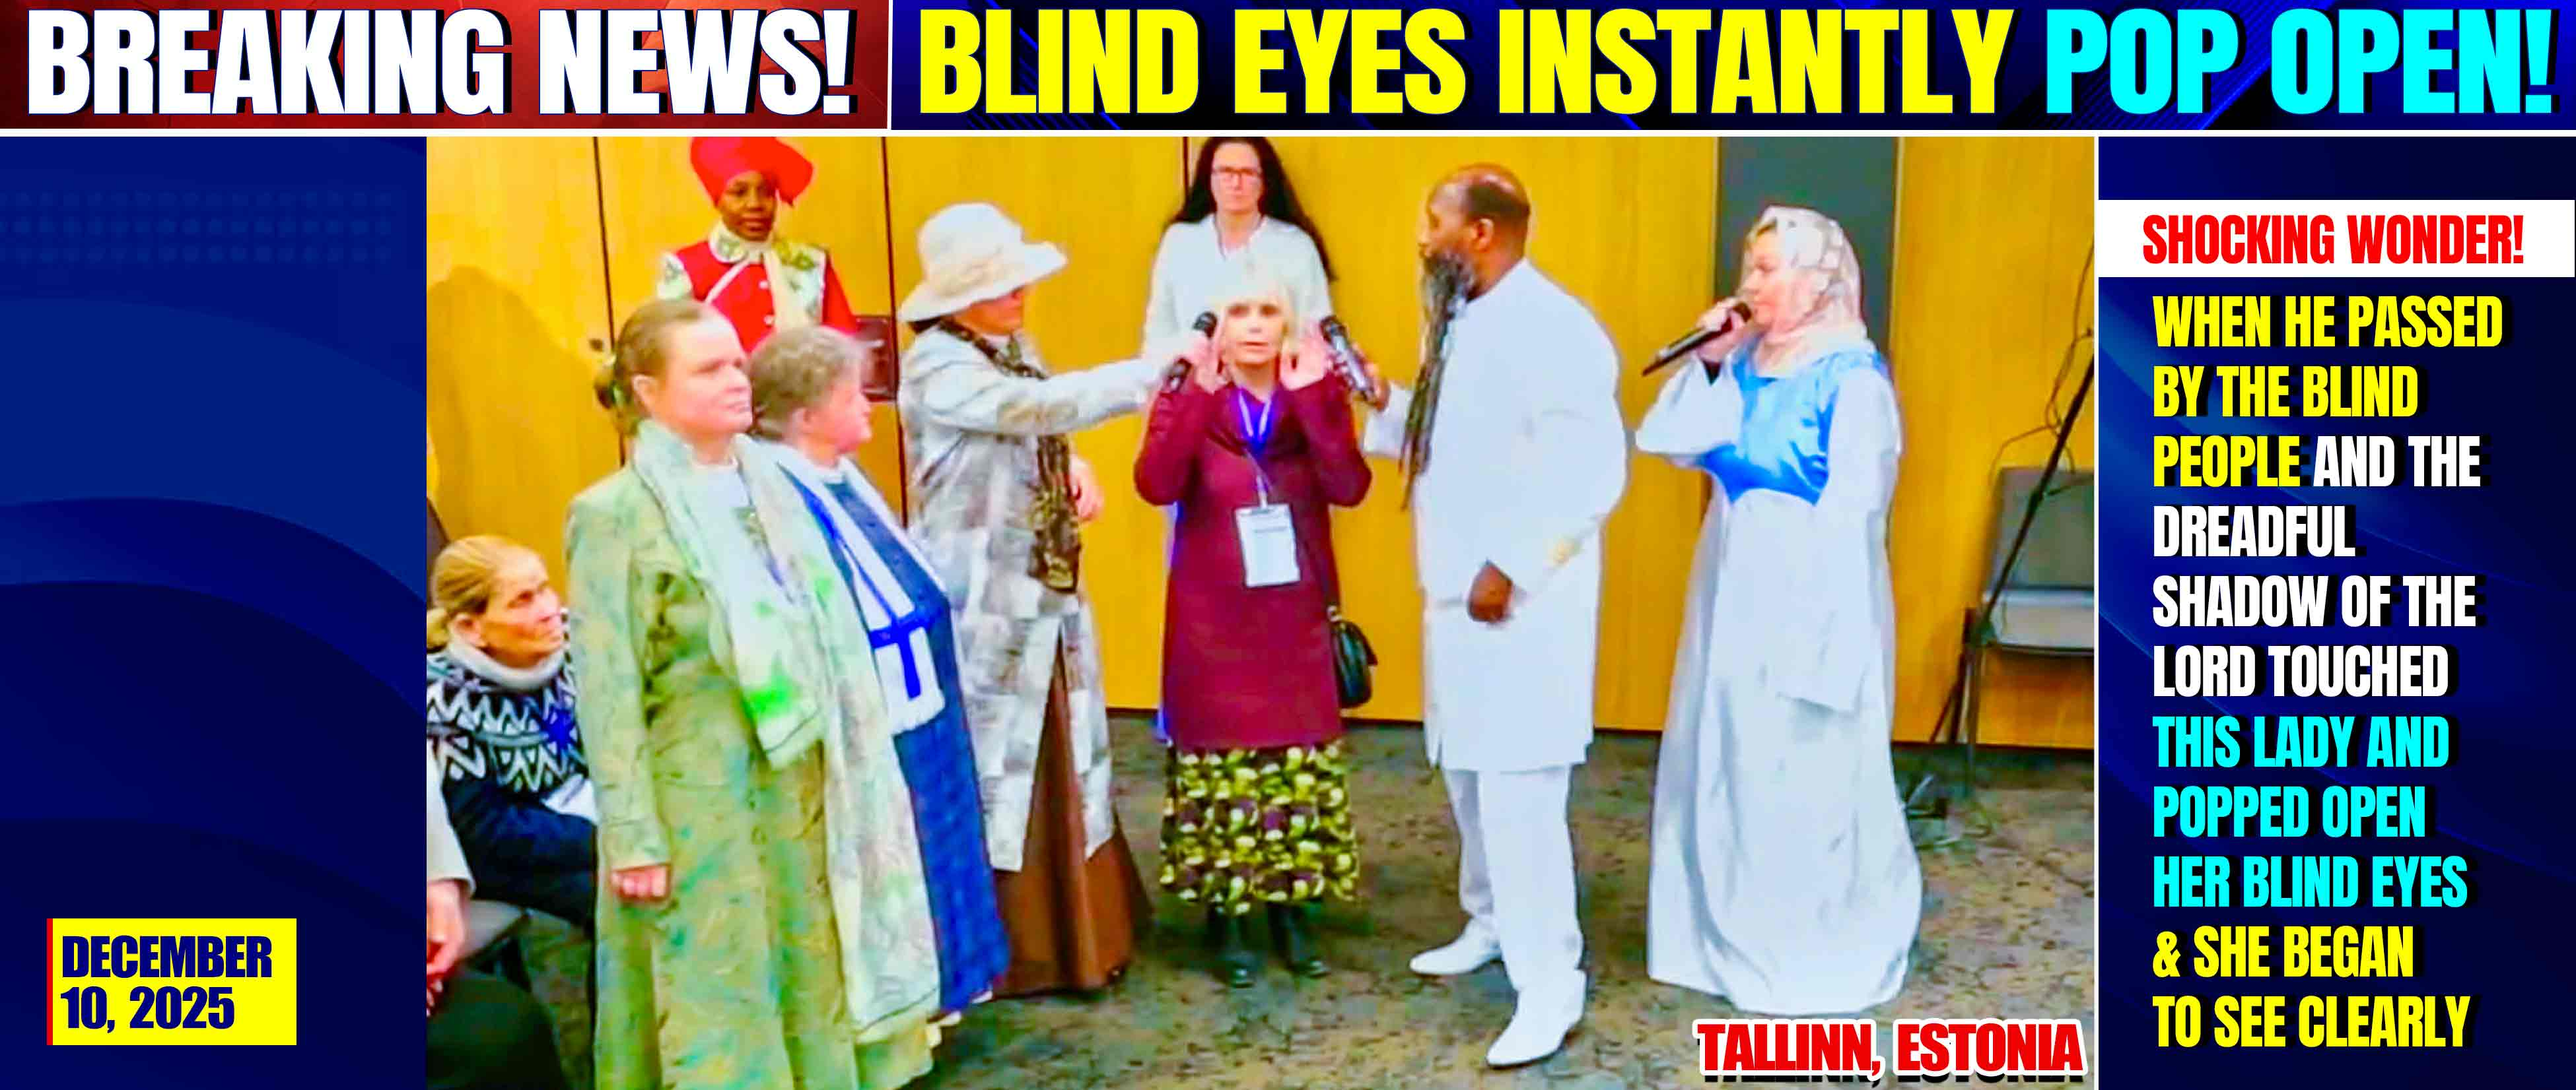
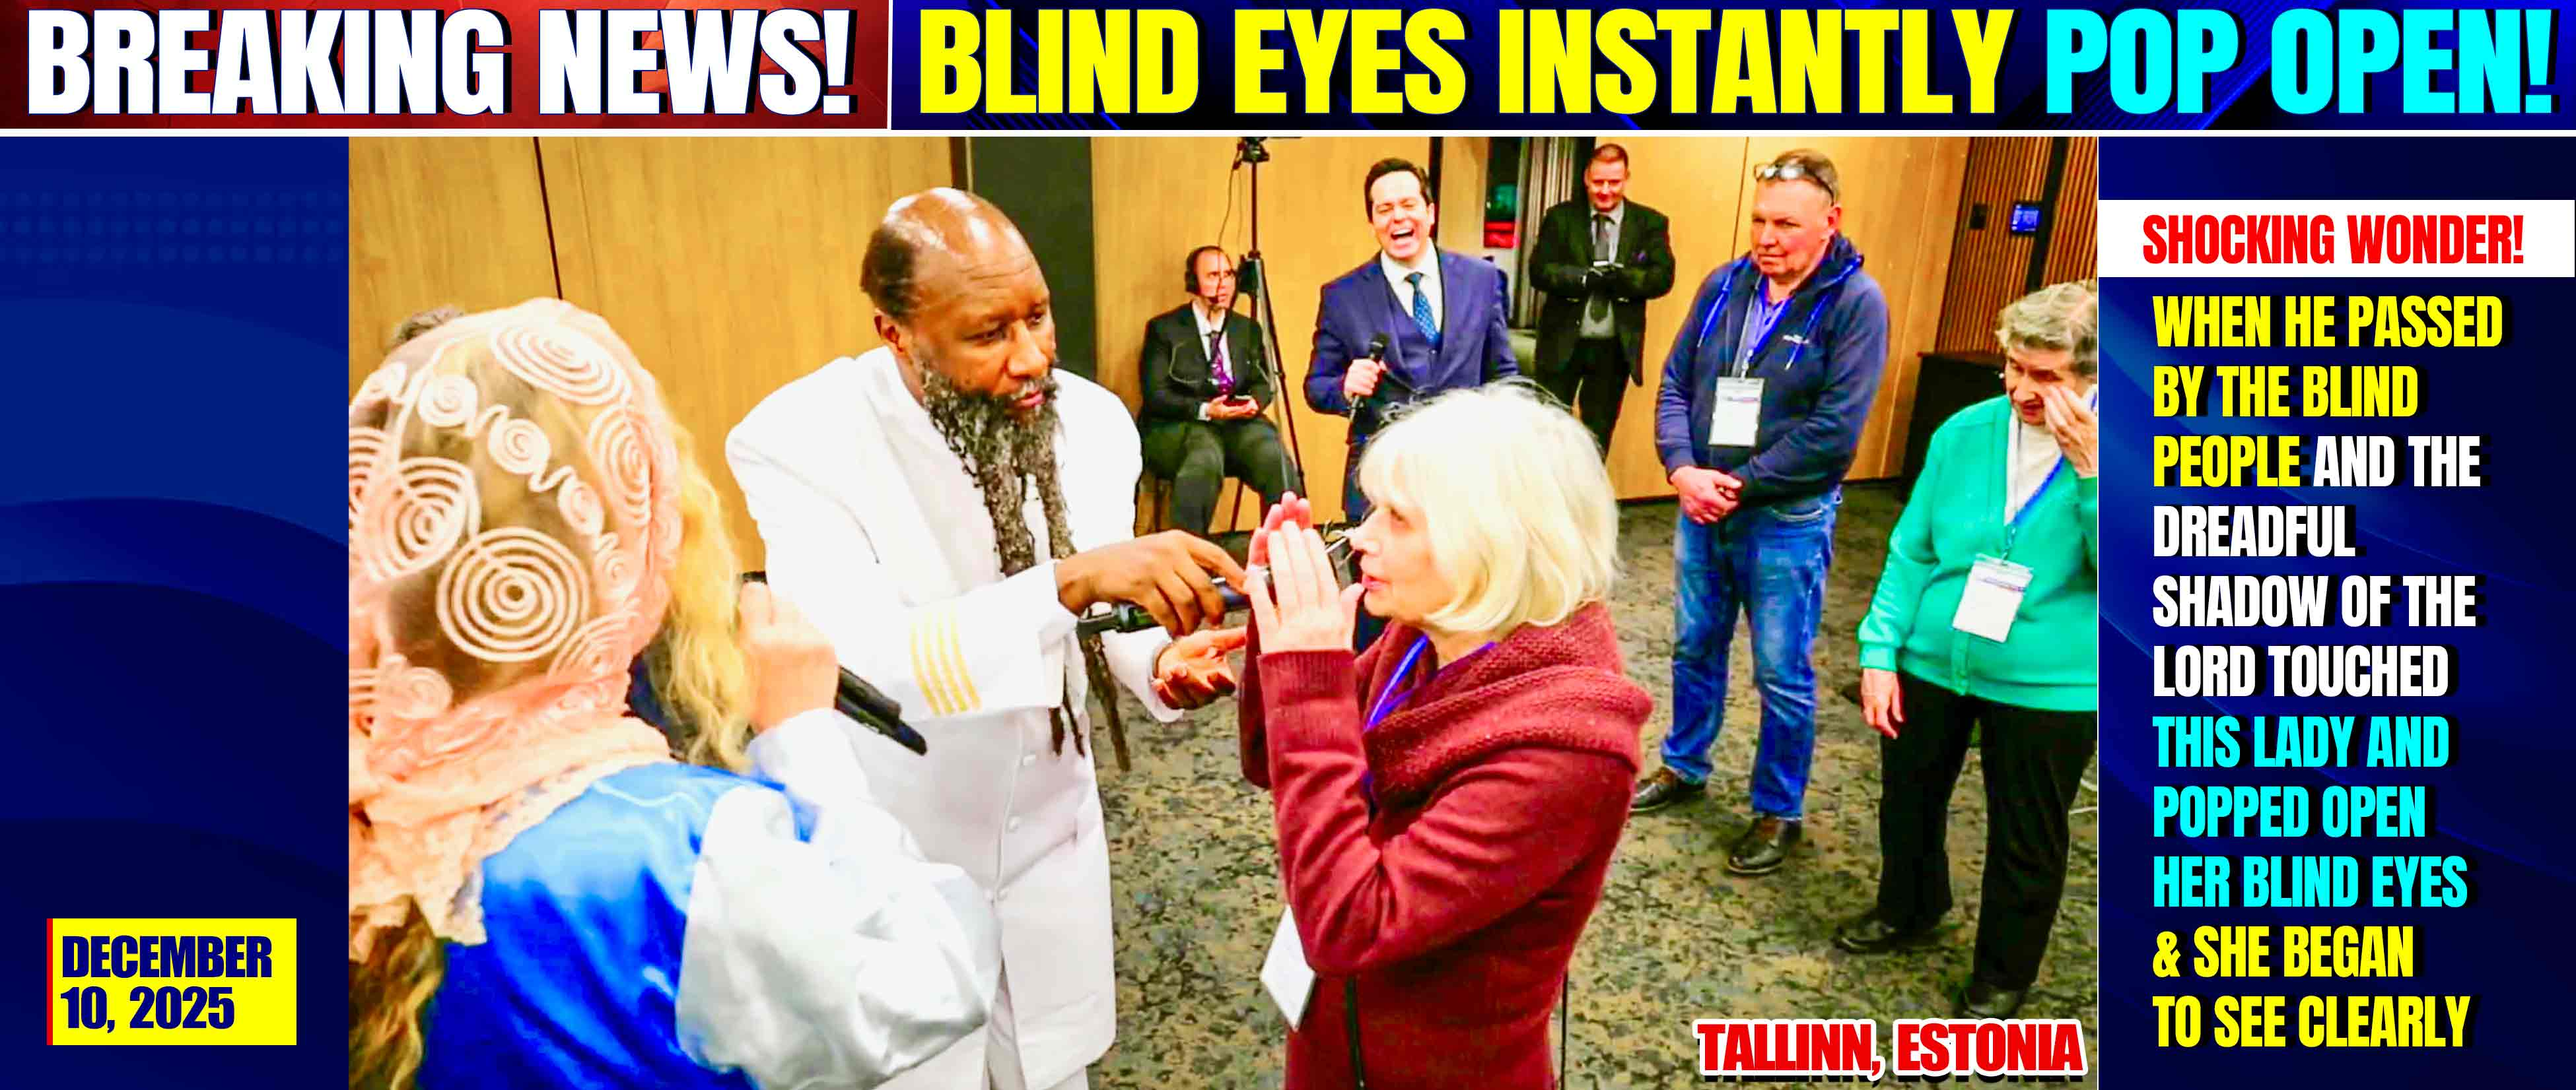
new

diff --git a/index.html b/index.html
@@ -14,6 +14,11 @@
 <img class="slideshow" src= "https://pub-9f92551086574e82abebdc7b9c83cf92.r2.dev/Estonia/3.%20Estonia/Crowd-2.jpg" alt="Unstable internet, please refresh the browser">
 <img class="slideshow" src= "https://pub-9f92551086574e82abebdc7b9c83cf92.r2.dev/Estonia/3.%20Estonia/Crowd-3.jpg" alt="Unstable internet, please refresh the browser">
 
+
+<img class="slideshow" src= "https://pub-9f92551086574e82abebdc7b9c83cf92.r2.dev/Estonia/3.%20Estonia/Blind-10.jpg" alt="Unstable internet, please refresh the browser">
+<img class="slideshow" src= "https://pub-9f92551086574e82abebdc7b9c83cf92.r2.dev/Estonia/3.%20Estonia/Blind-11.jpg" alt="Unstable internet, please refresh the browser">
+<img class="slideshow" src= "https://pub-9f92551086574e82abebdc7b9c83cf92.r2.dev/Estonia/3.%20Estonia/Blind-12.jpg" alt="Unstable internet, please refresh the browser">
+
 <img class="slideshow" src= "https://pub-9f92551086574e82abebdc7b9c83cf92.r2.dev/Estonia/3.%20Estonia/Blind-3.jpg" alt="Unstable internet, please refresh the browser">
 <img class="slideshow" src= "https://pub-9f92551086574e82abebdc7b9c83cf92.r2.dev/Estonia/3.%20Estonia/Blind-4.jpg" alt="Unstable internet, please refresh the browser">
 <img class="slideshow" src= "https://pub-9f92551086574e82abebdc7b9c83cf92.r2.dev/Estonia/3.%20Estonia/Blind-5.jpg" alt="Unstable internet, please refresh the browser">
@@ -24,6 +29,7 @@
 <img class="slideshow" src= "https://pub-9f92551086574e82abebdc7b9c83cf92.r2.dev/Estonia/3.%20Estonia/Blind-1.jpg" alt="Unstable internet, please refresh the browser">
 <img class="slideshow" src= "https://pub-9f92551086574e82abebdc7b9c83cf92.r2.dev/Estonia/3.%20Estonia/Blind-2.jpg" alt="Unstable internet, please refresh the browser">
 <img class="slideshow" src= "https://pub-9f92551086574e82abebdc7b9c83cf92.r2.dev/Estonia/3.%20Estonia/Blind-8.jpg" alt="Unstable internet, please refresh the browser">
+<img class="slideshow" src= "https://pub-9f92551086574e82abebdc7b9c83cf92.r2.dev/Estonia/3.%20Estonia/Blind-9.jpg" alt="Unstable internet, please refresh the browser">
 
 
 <img class="slideshow" src= "https://pub-9f92551086574e82abebdc7b9c83cf92.r2.dev/Estonia/3.%20Estonia/DEAF-1.jpg" alt="Unstable internet, please refresh the browser">
@@ -38,6 +44,9 @@
 <img class="slideshow" src= "https://pub-9f92551086574e82abebdc7b9c83cf92.r2.dev/Estonia/3.%20Estonia/Weak-hands-2.jpg" alt="Unstable internet, please refresh the browser">
 <img class="slideshow" src= "https://pub-9f92551086574e82abebdc7b9c83cf92.r2.dev/Estonia/3.%20Estonia/Weak-hands-3.jpg" alt="Unstable internet, please refresh the browser">
 <img class="slideshow" src= "https://pub-9f92551086574e82abebdc7b9c83cf92.r2.dev/Estonia/3.%20Estonia/Weak-hands-4.jpg" alt="Unstable internet, please refresh the browser">
+
+
+<img class="slideshow" src= "https://pub-9f92551086574e82abebdc7b9c83cf92.r2.dev/Estonia/3.%20Estonia/Crowds.jpg" alt="Unstable internet, please refresh the browser">
 
 
 
